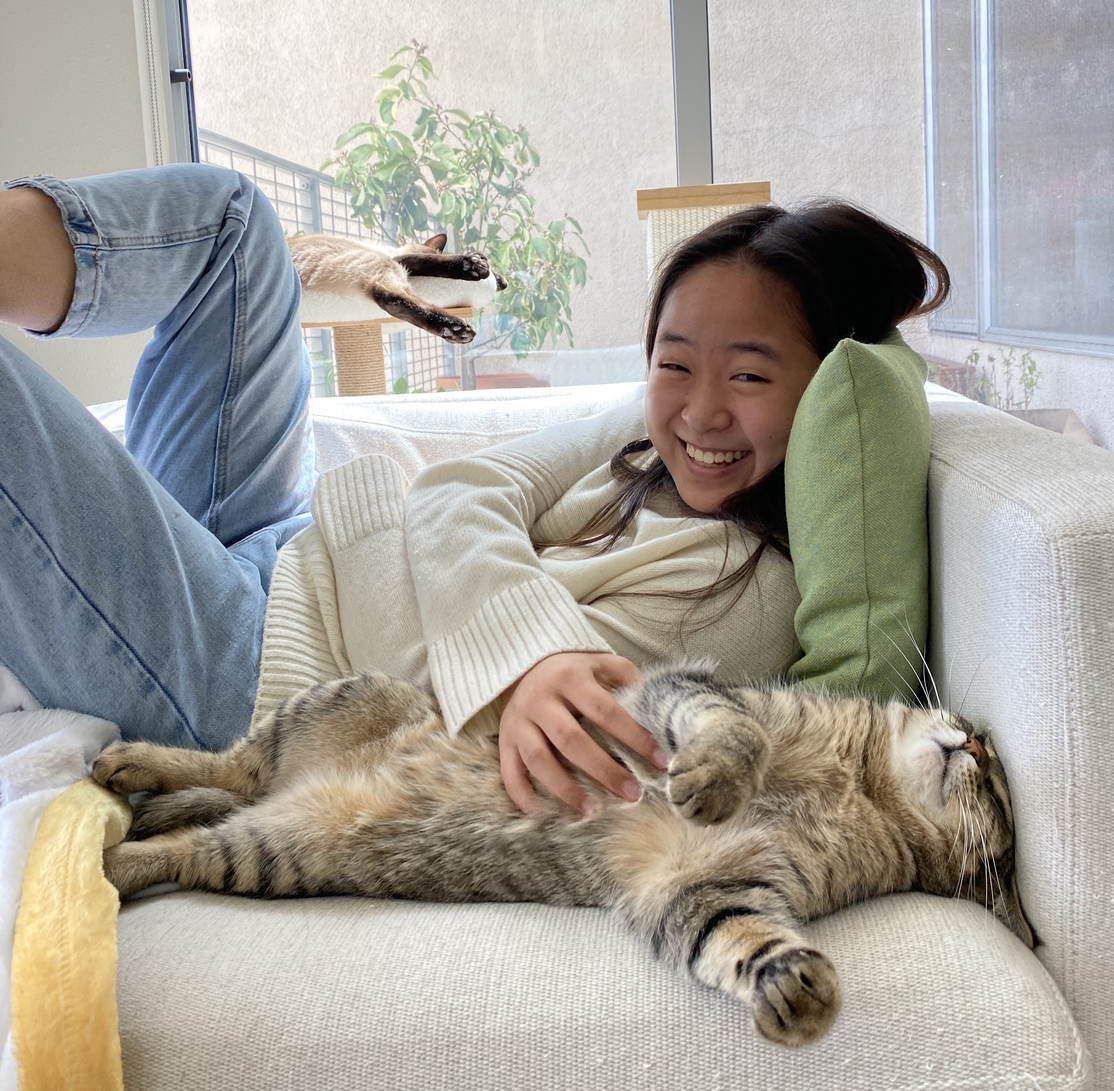
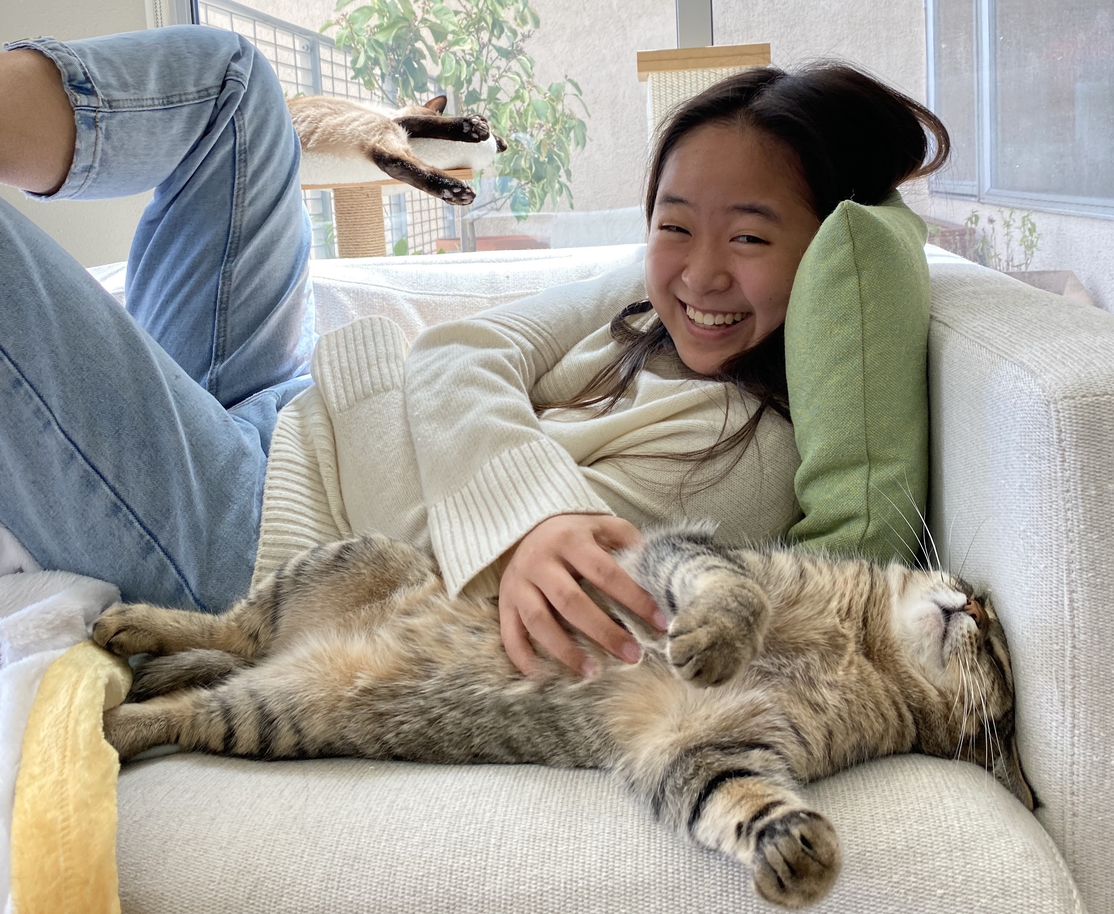
looks good for now!

diff --git a/index.html b/index.html
@@ -12,23 +12,42 @@
 
 <html>  
     <body>
-   
+   <header>
+       <div class='box'>
+        <div class='menu'>
+            <a class='quick-link' href='#projects'>Projects</a>
+           
+            <a class='quick-link' href='#crafts'>Crafts</a>
+           
+            <a class='quick-link' href='#baking'>Baking</a>
+           
+            <a class='quick-link' href='#contact'>Contact</a>
+           </div>
+
+       </div>
+      
+   </header>
         <main>
-            <h1>Hi!</h1>
-            <p>I'm <strong>Carolyn</strong>. I like making things, taking naps, and petting cats.</p>
-            <figure>
-                <img class="cat" src='public/me-and-toffee.jpg' alt="me and a cat"/>
-                <figcaption>me and Toffee, my favorite cat</figcaption>
-            </figure>
-            <p> I'm interested in the open ocean, clean tech, human-centered design, learning new things, and getting better at explaining new things.</p>
+            <section id='about'>
+                <h1>Hi!</h1>
+                <p>I'm <strong>Carolyn</strong>. I like making things, taking naps, and petting cats.</p>
+                <figure>
+                    <div class='cat-wrapper'><img class="cat" src='public/me-and-toffee.jpg' alt="me and a cat"/></div>
+                    <figcaption>me and Toffee, my favorite cat</figcaption>
+                </figure>
+                <p> I'm interested in the open ocean, clean tech, human-centered design, learning new things, and getting better at explaining new things. I'm currently trying to figure out how to implement local storage.</p>
+
+            </section>
+
+          
             <section id='projects'>
-                <h3>Projects</h2>
+                <h2>Projects</h2>
                 <p>I took time off school in spring 2021 to learn how to build things. What I'm most proud of :</p>
                 <div id='links'>
                         <a  href='/meatless'> 
                             <div id=project>
                                 <p class='project-header'>Meatless</p>
-                                <p>A native app to help people who want to eat less meat find meatless dishes near them. It was my first time building a scraper, working with MongoDB, playing around with ML models, and using Flutter.</p>
+                                <p>A native app to help people who want to eat less meat find meatless dishes near them. It was my first time building a scraper, working with MongoDB, trying to use ML models, and building a Flutter app.</p>
                                 <img class='project-image' src="public/meatless-icon.png"/>  
                             </div>
                         </a>
@@ -56,13 +75,15 @@
             </section>
             
             <section id='crafts'>
-                <h3>Crafts</h2>
+                <h2>Crafts</h2>
                 <p>I'm constantly crafting! What I've been up to recently :</p>
                 <div id='links'>
 
                     <a href='/chinese-knotting'>
                         <div id=project>
                             <p class='project-header'>Chinese Knotting</p>
+                            <p></p>
+                            <img class='project-image' src="public/chinese-knot.jpg"/> 
                         </div>
                     </a>
                     <br>
@@ -78,7 +99,7 @@
             
             <section id='baking'>
                 
-                <h3>Baking</h2>
+                <h2>Baking</h2>
                 <p>Sweets keep me going! My favorite recipes :</p>
                     <div id='links'>
                         <a href='/strawberry-shortcake'>
@@ -91,6 +112,14 @@
                             <p class='project-header'>Fudgy Brownies</p>
                         </div></a>
                     </div>
+            </section>
+
+            <section id='contact'>
+                
+                <h2>Contact me!</h2>
+                    <a>email</a>
+                    <a>linkedin</a>
+                    <a>instagram</a>
             </section>
         </main>
         

diff --git a/style.css b/style.css
@@ -9,7 +9,12 @@ body {
 
 }
 
+section {
+  margin-bottom: 3em;
+}
+
 p {
+  /* text-align: justify; */
   margin-block-start: 0%;
   margin-block-end: 0%;
 }
@@ -21,26 +26,41 @@ main {
   max-width: 600px;
 }
 
+/* .cat-wrapper {
+  margin: 0em 1em;
+} */
+
+figure {
+  margin-left: 0;
+  margin-right:0;
+}
 img.cat{
   border-radius: 10px;
-  width: 90%;
+  width: 100%;
   align-content: center;
 
 
 
 }
 
-/* rgb(255, 225, 58) */
-
-/* h1 {
-  
-  font-weight: 500;
+h1 {
+  margin-block-end: 0.1em;
+  margin-block-start: 0em;
+  font-size: 2em;
 }
 
-h3 {
+h1, h2 {
+  
   font-weight: 500;
-} */
-
+  letter-spacing: 0.15em;
+  color:rgb(96, 162, 190);
+  text-shadow: 1px -1px white,
+              -1px 1px rgb(18, 100, 136),
+              -2px 2px rgb(18, 100, 136),
+              /* -3px 3px rgb(18, 100, 136),
+              -4px 4px rgb(18, 100, 136), */
+              -4px 2px rgb(114, 157, 175);
+}
 
 figcaption {
   font-size: 0.8em
@@ -50,25 +70,25 @@ figcaption {
 a{
   text-decoration: none;
 }
-#links {
-  
-  margin-top: 20px;
-  margin-bottom: 40px;
+
+#links{
+  margin-top:20px;
 }
+
 #project {
+  margin: 10px auto;
   color:rgb(190, 150, 30);
   line-height: 1.5;
 
   border-radius: 10px;
-  margin-left: 40px;
-  margin-bottom: 10px;
+
+  
   padding: 1em;
   align-content: center;
-  background-color:rgb(255, 250, 235)
-  ;
-  
+  background-color:rgb(255, 250, 235);
+  display:block;
  
-  width: 72%;
+  width: 90%;
   
   box-shadow:
   1px -1px white,
@@ -117,4 +137,27 @@ a{
   text-transform: uppercase;
   font-size: 1.1em;
   margin-bottom: 3px;
+  text-shadow: 1px 1px white, -1px -1px rgb(252, 220, 124);
+}
+
+/* quick links */
+.quick-link {
+  align-content: left;
+  color:rgb(96, 162, 190);
+  text-shadow: 0px 1px white;
+  margin: 0.5em;
+}
+
+.quick-link:hover {
+  color: rgb(0, 54, 63)
+}
+
+.menu {
+  float:right;
+  
+}
+
+.box{
+  height:1em;
+  width:100%
 }
